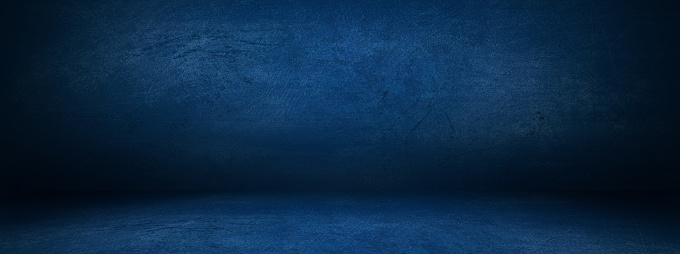
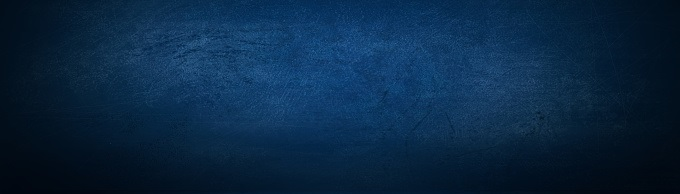
Update header styling

diff --git a/css/style.css b/css/style.css
@@ -125,21 +125,25 @@ h3 {font-size: var(--fs-h3);}
 /* intro */
 
 .intro {
-    background-color: #b4142b;
     color: var(--clr-light);
     text-align: center;
     background-size: cover;
-    /*background-blend-mode:overlay;*/
     background-image: url(../img/background.png);
-    background-size: cover;
     background-blend-mode:overlay;
     padding: 2.5em;
 }
 
 .intro img {
     margin: auto;
-    mix-blend-mode: darken;
+    mix-blend-mode: overlay;
     width: 75%;
+    max-width: 35em;
+}
+
+@media (max-width: 1200px) {
+    .intro {
+        background-image: url(../img/background2.png);
+    }
 }
 
 .title {

diff --git a/index.html b/index.html
@@ -22,7 +22,7 @@
      <section class="intro">
        <!-- <h1 class="section__title section__title--movies">Marvel Cinematic <br> Universe</h1>
         <h2 class="section__subtitle section__subtitle--movies">MCU Feature Films and Shows</h2> -->
-        <img src="img/mcu2.png"/>
+        <img src="img/mcu5.png"/>
     </section>
   
 
